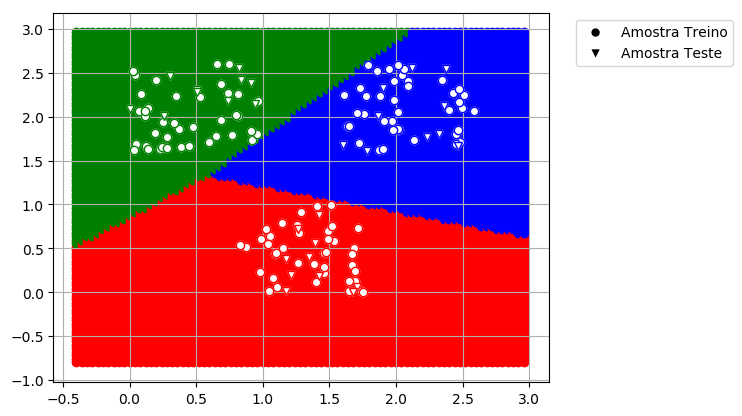
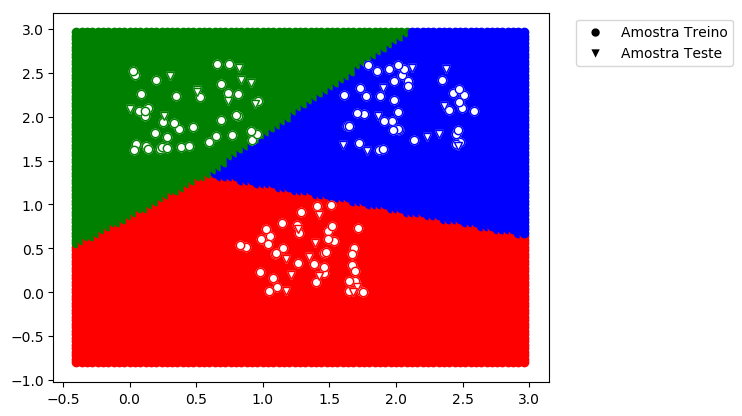
T3 Results

diff --git a/T3/Analisys.py b/T3/Analisys.py
@@ -8,7 +8,7 @@ oExp11 = Experiment.load("Objects/EXP01_1_LP_20.gzip".format())
 oExp12 = Experiment.load("Objects/EXP01_2_LP_20.gzip".format())
 oExp13 = Experiment.load("Objects/EXP01_3_LP_20.gzip".format())
 oExp14 = Experiment.load("Objects/EXP01_4_LP_20.gzip".format())
-# oExp15 = Experiment.load("Objects/EXP01_5_LP_20.gzip".format())
+oExp15 = Experiment.load("Objects/EXP01_5_LP_20.gzip".format())
 
 COLORS = ['GREEN', 'RED', 'BLUE']
 MARKER = ['o', '^', "*"]
@@ -23,15 +23,15 @@ print(oExp13)
 print()
 print(oExp14)
 print()
-# print(oExp15)
-# print()
+print(oExp15)
+print()
 
 
 
 def getBestTrain(exp, name):
     """Etapa 1: Matriz confusao e grafico para melhor treinamento."""
     oDataSet = exp.experimentResults[0]
-    best = 0;
+    best = 0
     oBestData = None
     for oData in oDataSet.dataSet:
         txAcc = oData.get_metrics()[1, -1]
@@ -49,13 +49,13 @@ oData11 = getBestTrain(oExp11, "et1_ex1_1.png")
 oData12 = getBestTrain(oExp12, "et1_ex2_1.png")
 oData13 = getBestTrain(oExp13, "et1_ex3_1.png")
 oData14 = getBestTrain(oExp14, "et1_ex4_1.png")
-# oData15 = getBestTrain(oExp15, "et1_ex5_1.png")
+oData15 = getBestTrain(oExp15, "et1_ex5_1.png")
 
 print("\nMatriz confusao: Artificial\n", oData11.confusion_matrix)
 print("\nMatriz confusao: Iris \n", oData12.confusion_matrix)
 print("\nMatriz confusao: Coluna 3c\n", oData13.confusion_matrix)
 print("\nMatriz confusao: Dermatologia \n", oData14.confusion_matrix)
-# print("\nMatriz confusao: Cancer \n", oData15.confusion_matrix)
+print("\nMatriz confusao: Cancer \n", oData15.confusion_matrix)
 
 
 for i in base1:
@@ -102,7 +102,6 @@ for i in oData11.Testing_indexes:
              markerfacecoloralt='white',
              )
 plt.legend(loc='upper left', bbox_to_anchor=(1.04, 1))
-plt.grid(True)
 plt.savefig(("Results/et1_ex1_surface.png"), dpi=100, bbox_inches="tight")
 plt.show()
 

diff --git a/T4/Analisys.py b/T4/Analisys.py
@@ -9,7 +9,7 @@ oExp12 = Experiment.load("Objects/EXP01_2_LP_20.gzip".format())
 oExp22 = Experiment.load("Objects/EXP02_2_LP_20.gzip".format())
 oExp13 = Experiment.load("Objects/EXP01_3_LP_20.gzip".format())
 oExp14 = Experiment.load("Objects/EXP01_4_LP_20.gzip".format())
-# oExp15 = Experiment.load("Objects/EXP01_5_LP_20.gzip".format())
+oExp15 = Experiment.load("Objects/EXP01_5_LP_20.gzip".format())
 
 COLORS = ['GREEN', 'RED', 'BLUE']
 MARKER = ['o', '^', "*"]
@@ -26,8 +26,8 @@ print(oExp13)
 print()
 print(oExp14)
 print()
-# print(oExp15)
-# print()
+print(oExp15)
+print()
 
 
 
@@ -53,14 +53,14 @@ oData12 = getBestTrain(oExp12, "et1_ex2_1.png")
 oData22 = getBestTrain(oExp22, "et1_ex2_2.png")
 oData13 = getBestTrain(oExp13, "et1_ex3_1.png")
 oData14 = getBestTrain(oExp14, "et1_ex4_1.png")
-# oData15 = getBestTrain(oExp15, "et1_ex5_1.png")
+oData15 = getBestTrain(oExp15, "et1_ex5_1.png")
 
 print("\nMatriz confusao: Artificial\n", oData11.confusion_matrix)
 print("\nMatriz confusao: Iris \n", oData12.confusion_matrix)
 print("\nMatriz confusao: Iris 2 atributos \n", oData22.confusion_matrix)
 print("\nMatriz confusao: Coluna 3c\n", oData13.confusion_matrix)
 print("\nMatriz confusao: Dermatologia \n", oData14.confusion_matrix)
-# print("\nMatriz confusao: Cancer \n", oData15.confusion_matrix)
+print("\nMatriz confusao: Cancer \n", oData15.confusion_matrix)
 
 
 for i in base1:

diff --git a/T3/README.md b/T3/README.md
@@ -70,9 +70,21 @@
         6,0         : 	0,0102	0,0931	0,0079	0,1119
      All Class      :	0,0057	0,0213	0,0035	0,0238
 
+##  Experimento Cancer LP 20 realizaçoes,
+### AVERAGE RESULTS 
+                     	 acc  	  Se  	  Es  	  F1  
+        2,0         : 	0,9606	0,9726	0,9377	0,9701
+        4,0         : 	0,9606	0,9377	0,9726	0,9414
+     All Class      :	0,9606	0,9551	0,9551	0,9557
+ 
+### STD RESULTS 
+                     	 acc  	  Se  	  Es  	  F1  
+        2,0         : 	0,0232	0,0170	0,0696	0,0168
+        4,0         : 	0,0232	0,0696	0,0170	0,0388
+     All Class      :	0,0232	0,0337	0,0337	0,0276
 
 
-
+# Matrizes confusao melhor treinamento.
 Matriz confusao: Artificial
 
     10  0  0 
@@ -99,3 +111,8 @@ Matriz confusao: Dermatologia
     0  0  0 14  0  0 
     0  0  0  0 12  0 
     0  0  0  0  0  6  
+    
+Matriz confusao: Cancer 
+
+    96 01
+    00 40   
